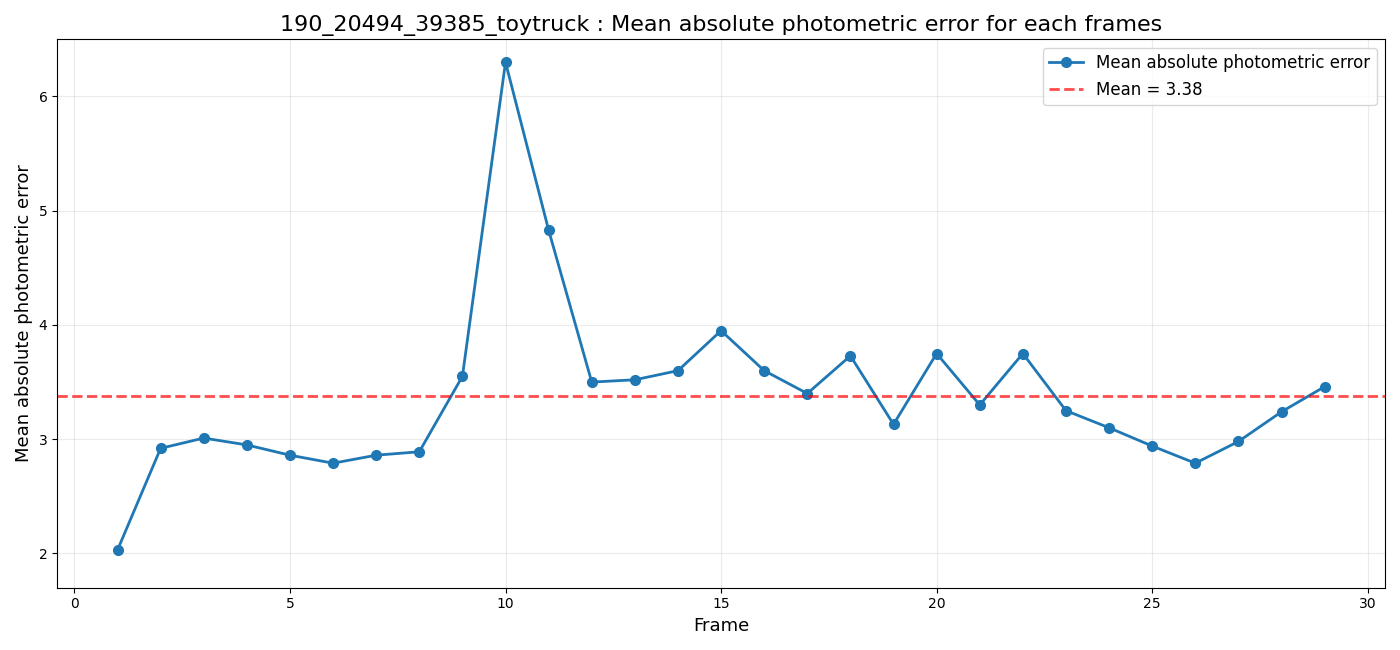
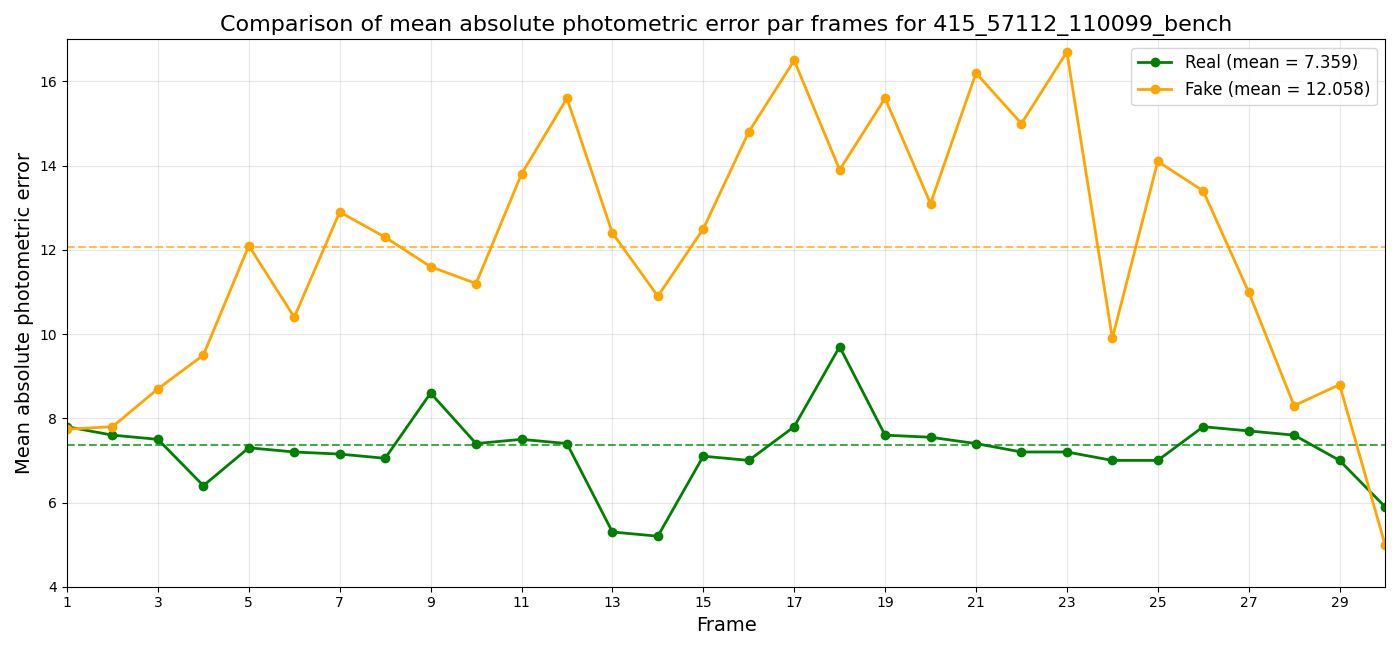
short midfid

diff --git a/index.html b/index.html
@@ -114,21 +114,13 @@
             reprojection géométrique.
           </p>
 
-          <div class="formula" aria-label="Formule de l'erreur photométrique moyenne absolue">
-            <span class="formula-name">MAE</span>
-            <span>=</span>
-            <span class="fraction">
-              <span>1</span>
-              <span>|N|</span>
-            </span>
-            <span class="sum-block">
-              <span class="sum">∑</span>
-              <span class="sum-index">p ∈ N</span>
-            </span>
-            <span>
-              | I<sub>observée</sub>(p) − I<sub>reconstruite</sub>(p) |
-            </span>
-          </div>
+          <figure class="metric-formula">
+            <img
+              src="assets/images/formule-mae.png"
+              alt="Formule de l’erreur photométrique moyenne absolue : moyenne des différences absolues entre l’image observée et l’image reconstruite."
+              loading="lazy"
+            />
+          </figure>
 
           <p>
             <strong>N</strong> désigne l’ensemble des pixels pouvant être comparés de manière fiable.
@@ -200,15 +192,58 @@
         <div class="container">
           <h2>Création du jeu de données</h2>
           <div class="text-container">
+            <p>Voici son contenu résumé :</p>
+          </div>
+          <figure class="dataset-visual">
+            <img
+              src="assets/images/resume-jeu-donnees.png"
+              alt="Résumé du jeu de données : catégories, objectifs, nombres de vidéos et nombres d’images."
+              loading="lazy"
+            />
+            <figcaption>
+              Composition du jeu de données utilisé pour les expériences.
+            </figcaption>
+          </figure>
+
+          <h3 class="dataset-subsection">Vidéos réelles (Co3D)</h3>
+          <div class="text-container">
             <p>
-              Les vidéos réelles proviennent du jeu de données <strong>Co3D</strong>. Afin de
-              construire des comparaisons pertinentes, la première et la dernière image d’une vidéo
-              réelle sont fournies à <strong>Dream Machine de Luma AI</strong>. Le modèle doit alors
-              générer la séquence intermédiaire en reproduisant la même scène et un mouvement de
+              Les vidéos réelles proviennent du jeu de données <strong>Co3D</strong>. Elles servent
+              de références pour mesurer les performances du pipeline sur des scènes authentiques.
+            </p>
+          </div>
+
+          <h3 class="dataset-subsection">
+            Vidéos réelles artificiellement déformées (TPS)
+          </h3>
+          <div class="text-container">
+            <p>
+              Cette catégorie est créée en déformant localement une image de vidéos réelles avec une
+              transformation <strong>Thin-Plate Spline</strong>. Ces séquences contrôlées servent à
+              vérifier que la métrique réagit bien à une incohérence géométrique connue.
+            </p>
+          </div>
+          <figure class="dataset-visual">
+            <img
+              src="assets/images/deformation-tps.png"
+              alt="Comparaison entre une image originale et une image localement déformée par transformation Thin-Plate Spline."
+              loading="lazy"
+            />
+            <figcaption>
+              Exemple de déformation locale contrôlée par transformation Thin-Plate Spline.
+            </figcaption>
+          </figure>
+
+          <h3 class="dataset-subsection">Vidéos générées à partir de paires (Luma AI)</h3>
+          <div class="text-container">
+            <p>
+              Afin de construire des comparaisons pertinentes, la première et la dernière image
+              d’une vidéo réelle sont fournies à <strong>Dream Machine de Luma AI</strong>. Le modèle
+              génère la séquence intermédiaire en reproduisant la même scène et un mouvement de
               caméra similaire.
             </p>
           </div>
-          <figure>
+          <figure class="dataset-visual">
             <img
               src="assets/images/protocole-paires.png"
               alt="Protocole de génération d'une vidéo appariée à partir de la première et de la dernière image d'une vidéo réelle."
@@ -219,21 +254,16 @@
               dernière image réelles.
             </figcaption>
           </figure>
+
+          <h4 class="paired-examples-title">Exemples de vidéos appariées</h4>
           <div class="text-container">
             <p>
-              Une troisième catégorie est créée en déformant localement une image de vidéos réelles
-              avec une transformation Thin-Plate Spline. Ces séquences contrôlées servent à vérifier
-              que la métrique réagit bien à une incohérence géométrique connue.
+              Les vidéos réelles et générées représentent une scène aussi proche que possible. Aucun
+              résultat n’est affiché pour le premier exemple.
             </p>
           </div>
 
-          <h3 class="subsection-title">Exemples de vidéos appariées</h3>
-          <p class="section-intro">
-            Les vidéos réelles et générées représentent une scène aussi proche que possible. Aucun
-            résultat n’est affiché pour le premier exemple.
-          </p>
-
-          <h4 class="example-title">Camion-jouet</h4>
+          <h5 class="example-title">Camion-jouet</h5>
           <div class="video-grid">
             <figure>
               <div class="video-title">Vidéo réelle</div>
@@ -251,7 +281,7 @@
             </figure>
           </div>
 
-          <h4 class="example-title">Banc</h4>
+          <h5 class="example-title">Banc</h5>
           <div class="video-grid">
             <figure>
               <div class="video-title">Vidéo réelle</div>

diff --git a/assets/css/style.css b/assets/css/style.css
@@ -225,6 +225,14 @@ h3 {
   color: var(--muted);
 }
 
+.metric-formula {
+  margin: 2rem 0;
+}
+
+.metric-formula img {
+  border-radius: 0;
+}
+
 .section-intro {
   max-width: var(--text-container);
   margin: 0 auto 2rem;
@@ -236,6 +244,27 @@ h3 {
   margin-top: 3.5rem;
   font-size: 1.6rem;
   text-align: center;
+}
+
+.dataset-subsection,
+.paired-examples-title {
+  margin: 3.25rem 0 1rem;
+  text-align: left;
+}
+
+.dataset-subsection {
+  font-size: 1.5rem;
+}
+
+.paired-examples-title {
+  color: #292929;
+  font-size: 1.3rem;
+  font-weight: 600;
+  line-height: 1.25;
+}
+
+.dataset-visual {
+  margin: 1.5rem 0 2.5rem;
 }
 
 .example-title {
